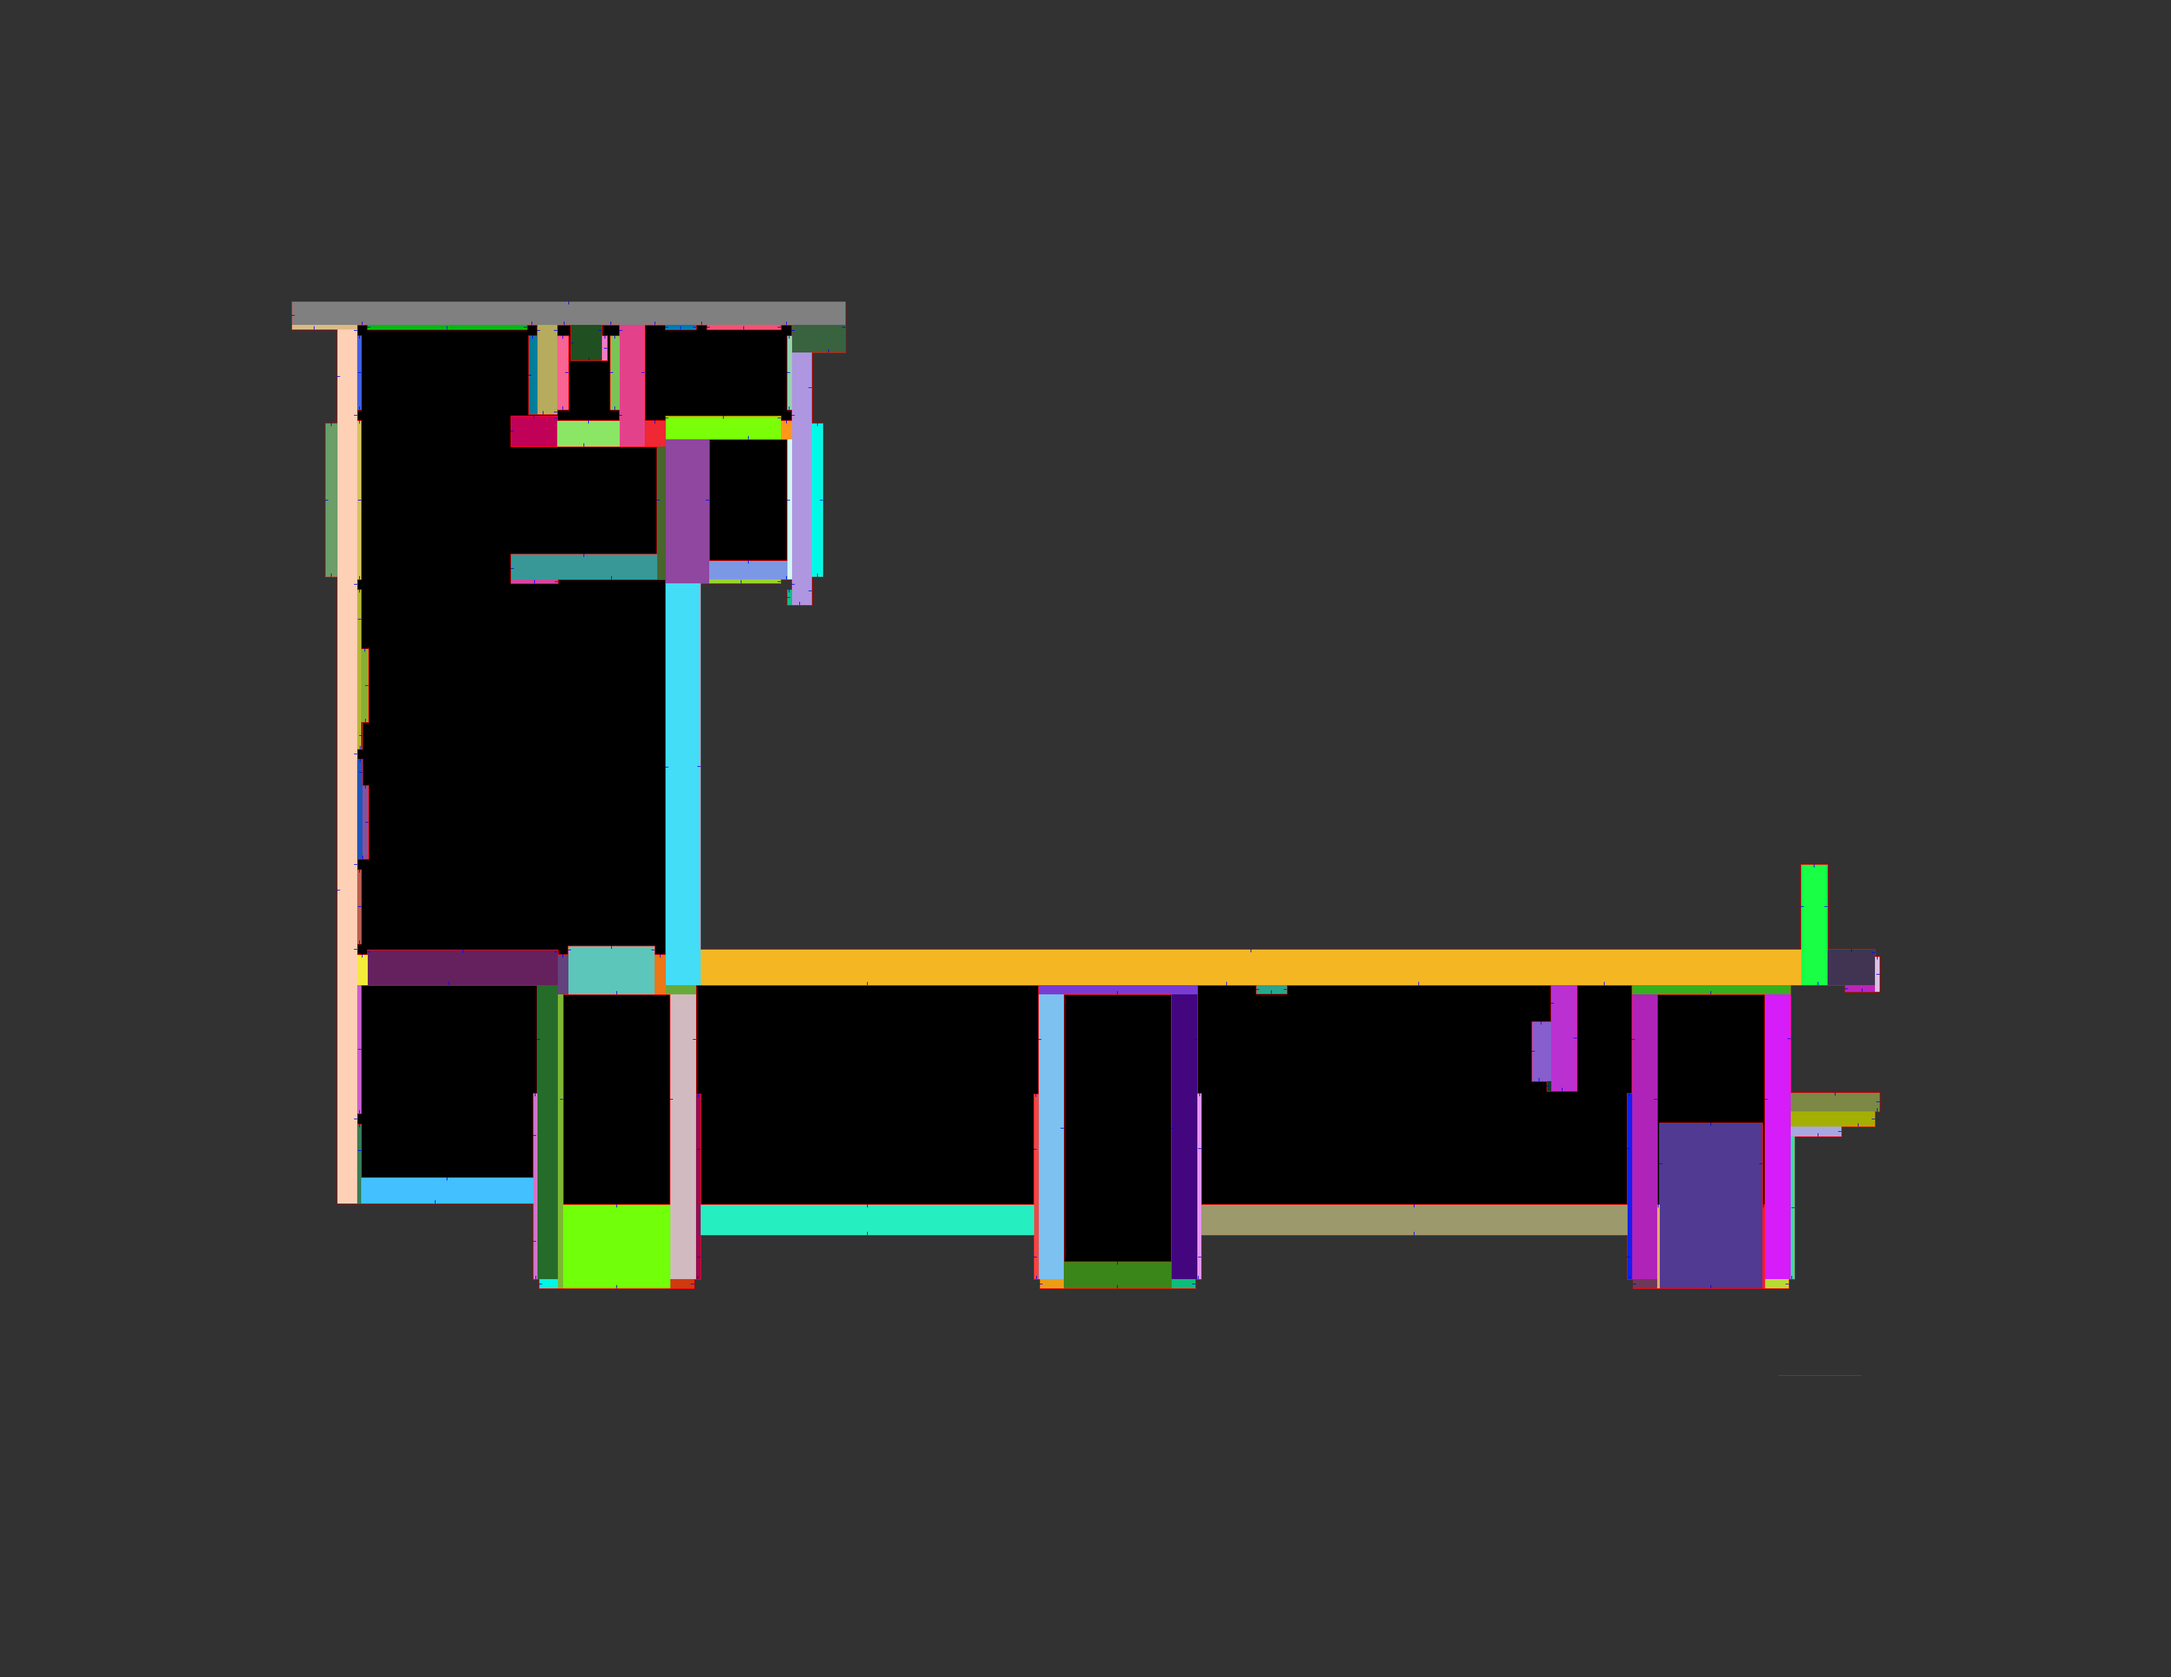
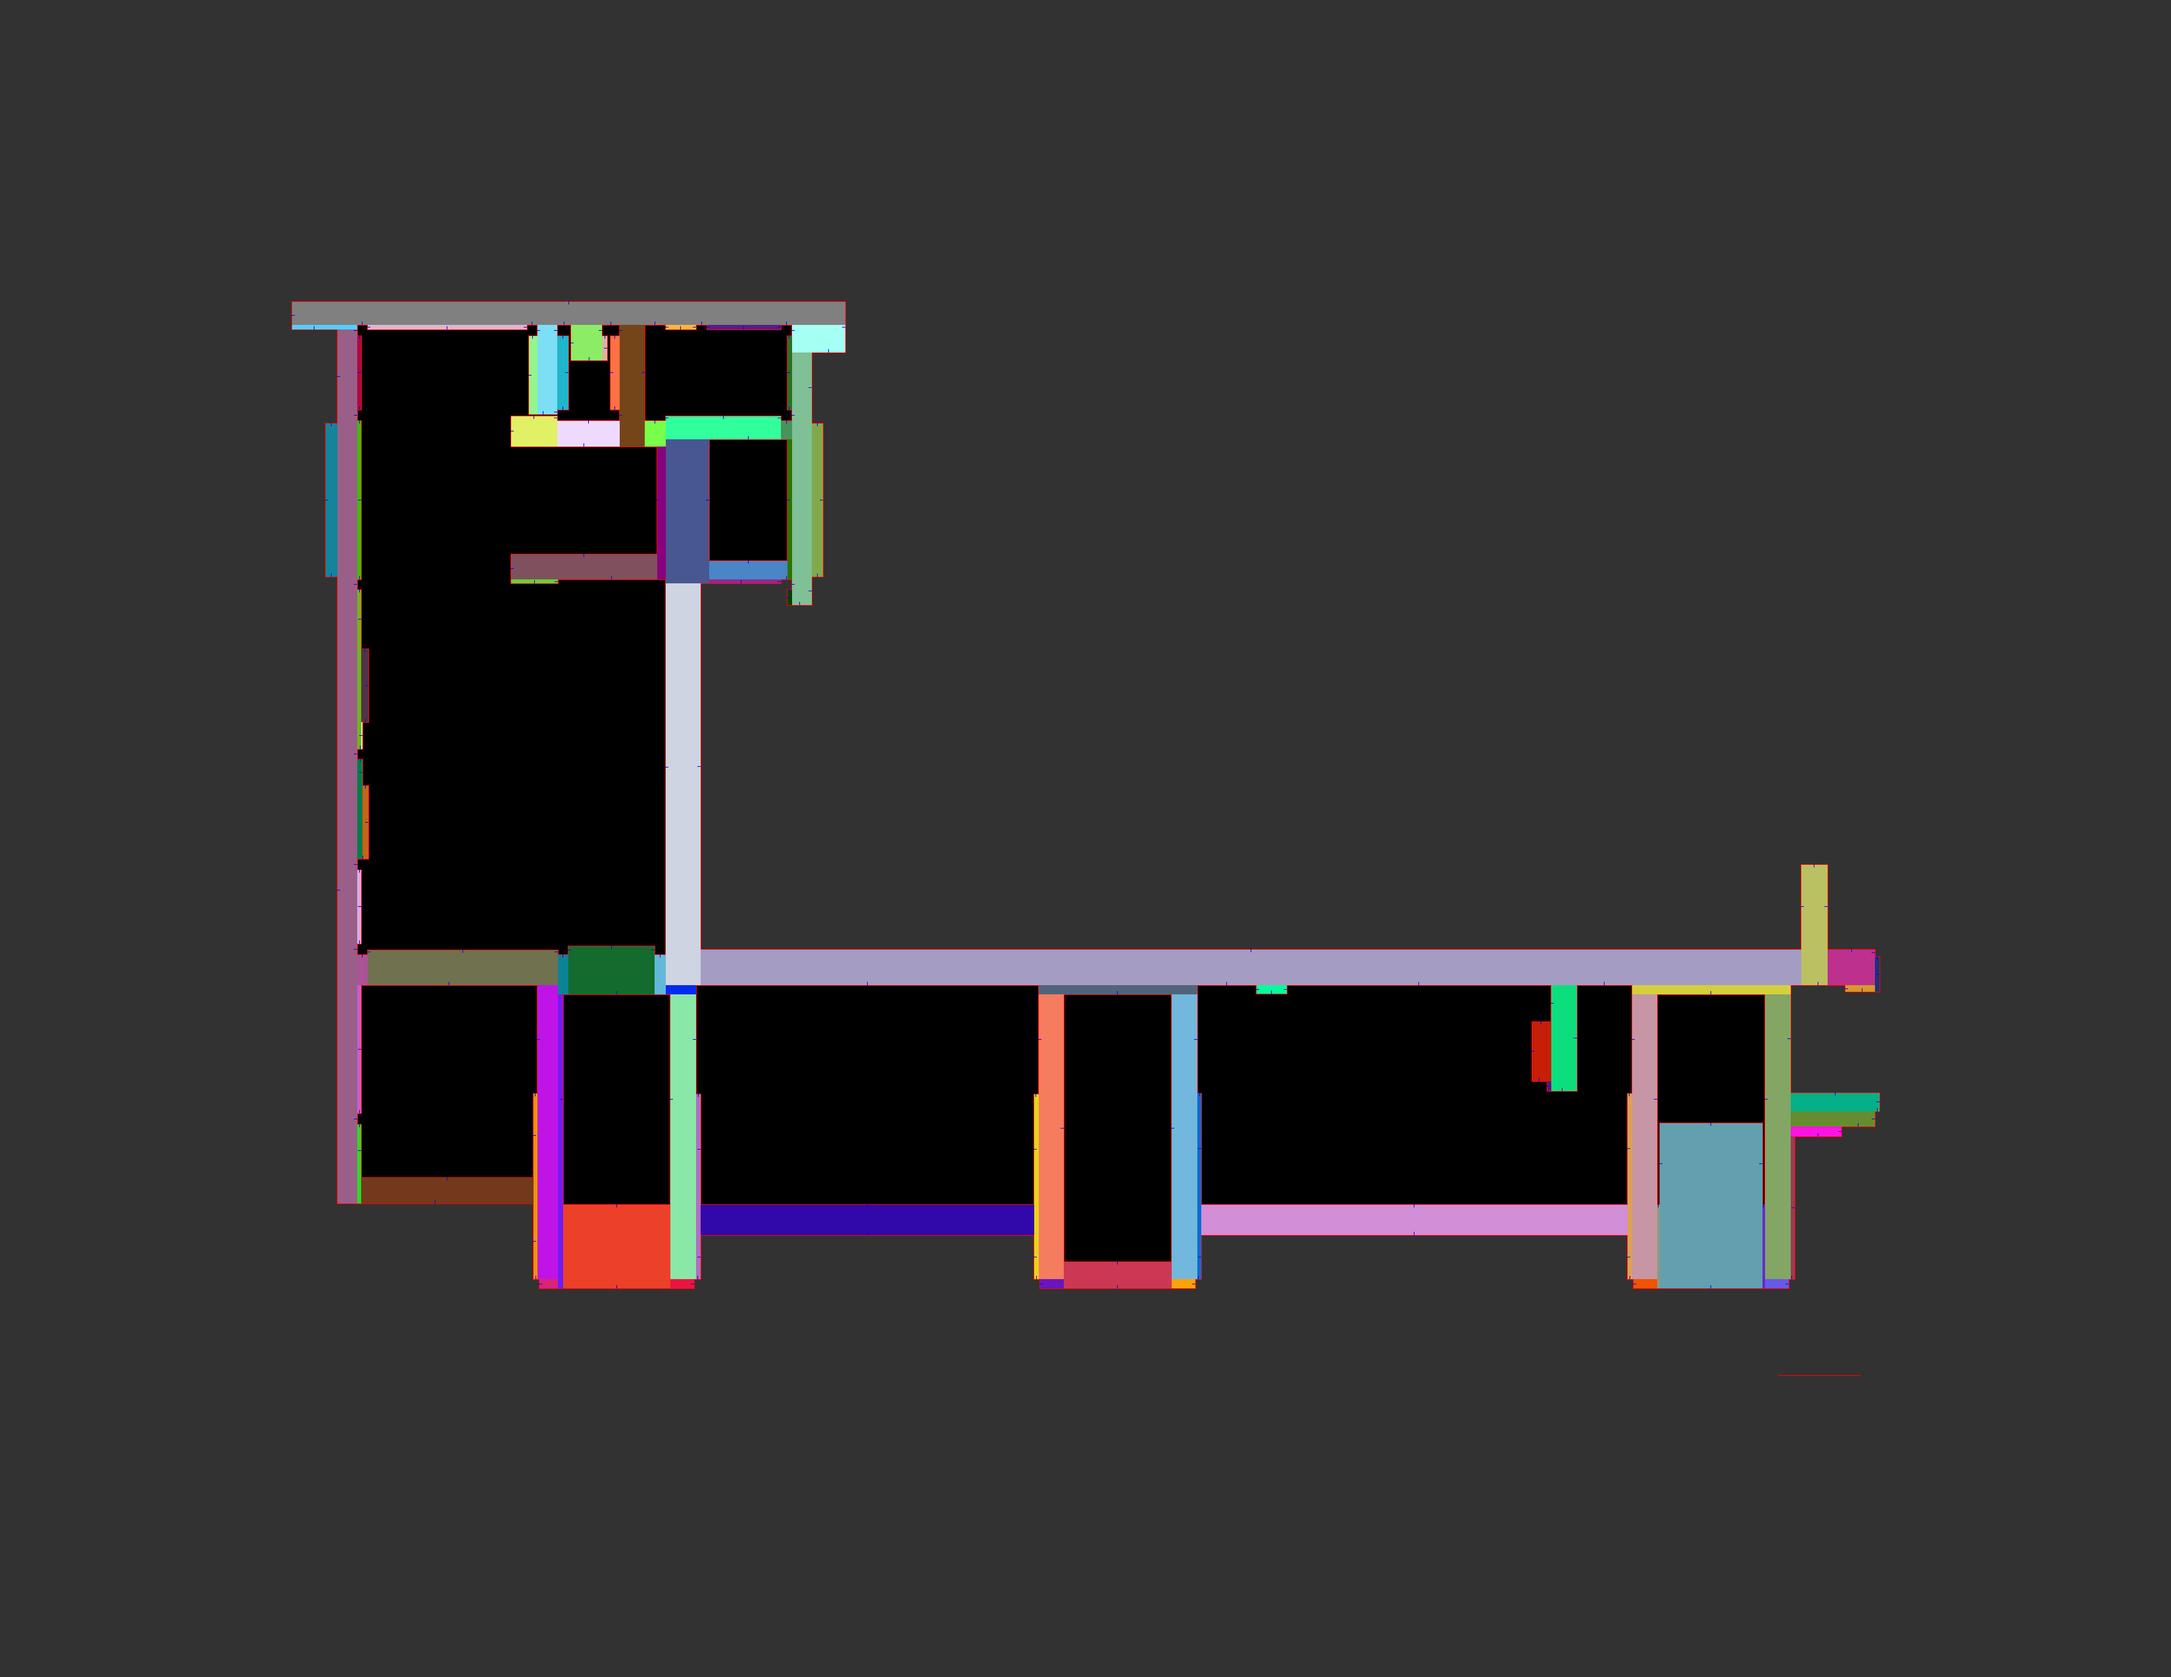
- Improved lighting model

Changed region(s): [[0.1248, 0.1859, 0.8739, 0.7745]]

diff --git a/sim/SDFGenerator.py b/sim/SDFGenerator.py
@@ -166,18 +166,18 @@ class SDFGenerator:
 
     def add_extra(self):
         """This extra stuff is required to load the SDF into Gazebo for testing"""
-        light = create_element("light", type="directional")
+        light = create_element("light", type="directional", name="sun")
         self.world.append(light)
-        light.append(create_element("pose", frame='', _text=pose_template.format(0, 0, 10, 0, 0, 0)))
+        light.append(create_element("pose", frame='', _text=pose_template.format(0, 0, 3, 0, 0, 0)))
         light.append(create_element("diffuse", _text=vec4_template.format(.8, .8, .8, 1.)))
         light.append(create_element("specular", _text=vec4_template.format(.2, .2, .2, 1.)))
         atten = create_element("attenuation")
         light.append(atten)
         atten.append(create_element("range", "1000"))
-        atten.append(create_element("constant", ".9"))
-        atten.append(create_element("linear", ".001"))
+        atten.append(create_element("constant", "1."))
+        atten.append(create_element("linear", ".1"))
         atten.append(create_element("quadratic", ".001"))
-        light.append(create_element("direction", _text=vec3_template.format(-.5, .1, -.9)))
+        light.append(create_element("direction", _text=vec3_template.format(0., 0., -1.)))
 
         self.world.append(create_element("gravity", vec3_template.format(0, 0, -9.8)))
         self.world.append(create_element("magnetic_field", vec3_template.format(6e-06, 2.3e-05, -4.2e-05)))
@@ -189,7 +189,7 @@ class SDFGenerator:
         physics.append(create_element("real_time_update_rate", _text="1000"))
         scene = create_element("scene")
         self.world.append(scene)
-        scene.append(create_element("ambient", vec4_template.format(.4, .4, .4, 1.)))
+        scene.append(create_element("ambient", vec4_template.format(.6, .6, .6, 1.)))
         scene.append(create_element("background", vec4_template.format(.7, .7, .7, 1.)))
         scene.append(create_element("shadows", _text="1"))
         self.world.append(create_element("wind"))
